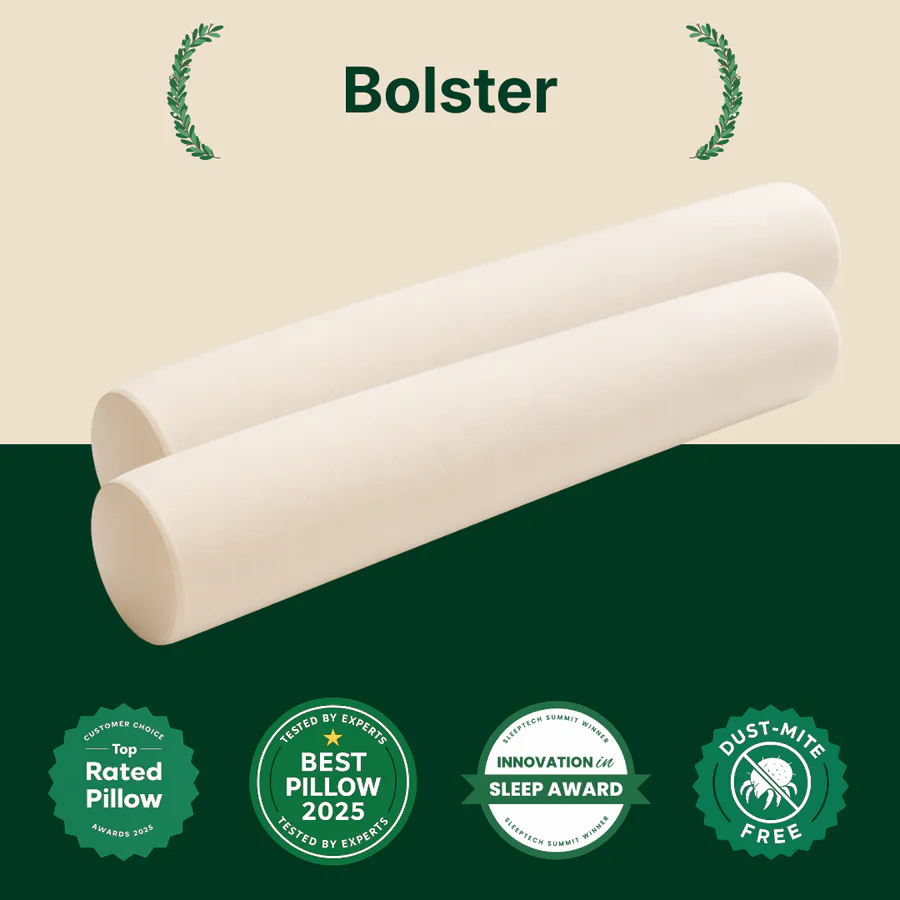
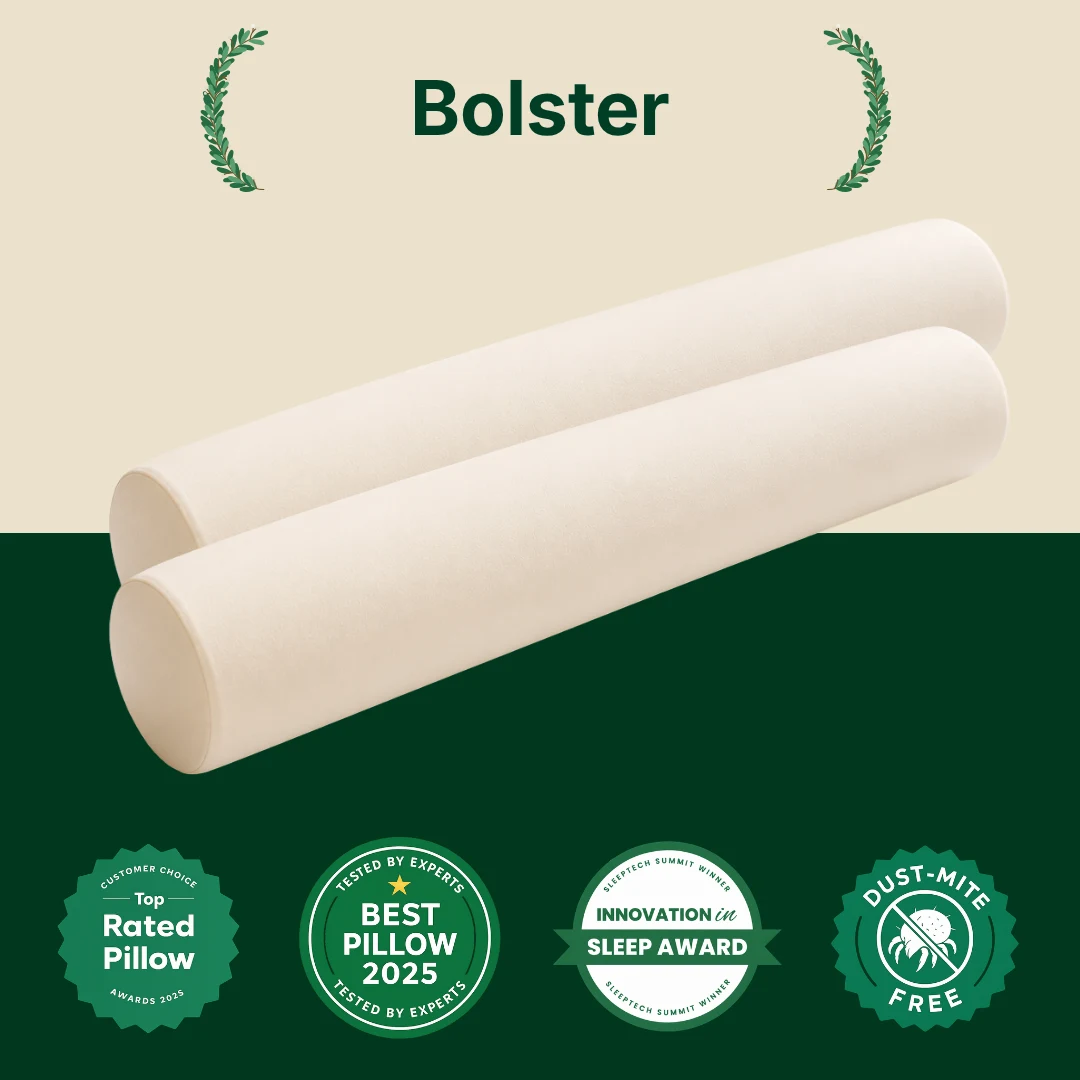
Add complete Bolster product gallery

diff --git a/app/products/[handle]/bolster-product-info.tsx b/app/products/[handle]/bolster-product-info.tsx
@@ -14,6 +14,8 @@ const testimonials=[
   {title:"Stays Amazingly Cool",body:"Living in Malaysia, regular pillows always turn into hot sponges by midnight. This latex one stays incredibly breezy. No sweat, no constant pillow-flipping. Absolutely worth every cent."}
 ];
 
+const gallery=Array.from({length:5},(_,index)=>`/images/md_latex_bolster_productpicture${index+1}.webp`);
+
 function PerkIcon({type}:{type:"truck"|"returns"|"lock"}){
   const common={viewBox:"0 0 32 32",fill:"none",stroke:"currentColor",strokeWidth:1.8,strokeLinecap:"round" as const,strokeLinejoin:"round" as const,"aria-hidden":true};
   if(type==="truck")return <svg {...common}><path d="M3 8h16v14H3zM19 13h5l5 5v4H19z"/><circle cx="9" cy="24" r="2.5"/><circle cx="24" cy="24" r="2.5"/><path d="M19 18h10"/></svg>;
@@ -22,10 +24,10 @@ function PerkIcon({type}:{type:"truck"|"returns"|"lock"}){
 }
 
 export default function BolsterProductInfo(){
-  const [testimonial,setTestimonial]=useState(0);const touchX=useRef(0);
+  const [current,setCurrent]=useState(0);const [testimonial,setTestimonial]=useState(0);const galleryTouchX=useRef(0);const touchX=useRef(0);
   const move=(amount:number)=>setTestimonial(value=>(value+amount+testimonials.length)%testimonials.length);
   return <section className="hp-product-shell">
-    <div className="hp-gallery"><div className="hp-mobile-photo"><img src="/images/md_latex_bolster_productpicture1.webp" alt="MD Latex natural latex bolster"/></div><div className="hp-gallery-collage"><button type="button" className="is-current"><img src="/images/md_latex_bolster_productpicture1.webp" alt="MD Latex natural latex bolster product view"/></button></div><div className="hp-gallery-dots"><button type="button" className="is-current" aria-label="Bolster image 1"/></div></div>
+    <div className="hp-gallery"><div className="hp-mobile-photo" onTouchStart={event=>galleryTouchX.current=event.touches[0].clientX} onTouchEnd={event=>{const delta=event.changedTouches[0].clientX-galleryTouchX.current;if(Math.abs(delta)>45)setCurrent(value=>(value+(delta<0?1:-1)+gallery.length)%gallery.length)}}><img src={gallery[current]} alt={`MD Latex natural latex bolster view ${current+1}`}/></div><div className="hp-gallery-collage">{gallery.map((image,index)=><button type="button" key={image} className={index===current?"is-current":""} onClick={()=>setCurrent(index)} aria-label={`View Bolster image ${index+1}`}><img src={image} alt={`MD Latex Bolster product view ${index+1}`}/></button>)}</div><div className="hp-gallery-dots">{gallery.map((_,index)=><button type="button" key={index} className={index===current?"is-current":""} onClick={()=>setCurrent(index)} aria-label={`Bolster image ${index+1}`}/>)}</div></div>
     <div className="hp-product-copy">
       <p className="hp-made-in">Made in Malaysia</p><p className="hp-product-rating"><span>★★★★</span><span className="hp-half-star">★</span> 4.8 From 1367 Reviews</p><h1>Bolster</h1><p className="hp-product-description">Experience the perfect balance of comfort, support, and durability with our 100% natural latex bolster.</p>
       <ul className="hp-product-benefits"><li><i>✓</i><span><b>100% Natural Latex</b><small>Eco-friendly &amp; Sustainable</small></span></li><li><i>✓</i><span><b>Pressure Relief</b><small>Reduces pressure points and improves sleep</small></span></li><li><i>✓</i><span><b>Breathable &amp; Cool</b><small>Open-cell structure for better airflow</small></span></li><li><i>✓</i><span><b>Durable &amp; Long Lasting</b><small>Built to last 20 years</small></span></li></ul>
